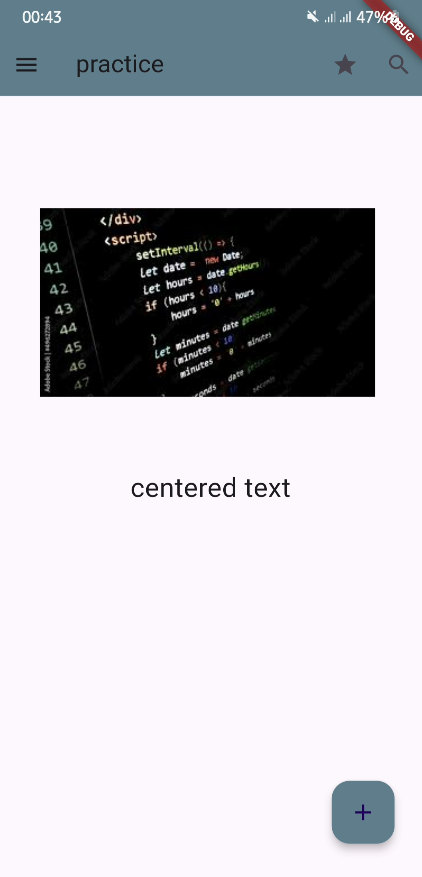
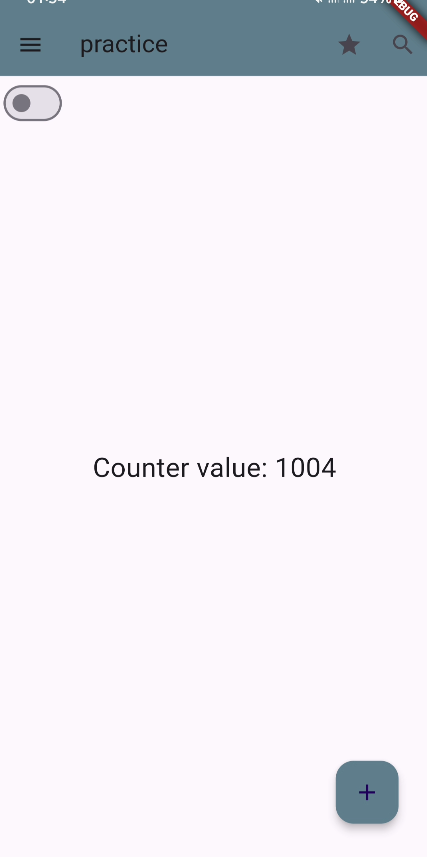
stateful widgets: added counter and image toggle

diff --git a/home_page_practice/main.dart b/home_page_practice/main.dart
@@ -1,5 +1,4 @@
 //date: 11 Jan 2025
-//new edit on 14 Jan 2025
 
 import 'package:flutter/material.dart';
 import 'constants/images.dart';  // For image paths
@@ -13,6 +12,34 @@ void main() {
 class MyApp extends StatelessWidget {
   const MyApp({super.key});
 
+  @override
+  Widget build(BuildContext context){
+    return MaterialApp(
+      home: MyHomePage()
+    );
+  }
+}
+
+// MyHomePage Widget Class
+
+class MyHomePage extends StatefulWidget{
+  @override
+  _MyHomePageState createState() => _MyHomePageState(); 
+}
+
+//State for MyHomePage
+
+class _MyHomePageState extends State<MyHomePage>{
+
+  int _counter = 0; //counter
+  bool _isSwitched = false; //for toggle
+
+  void _incrementCounter(){ //function for incrementing counter
+    setState(() => _counter++);
+  }
+
+  // main function
+  
   @override
   Widget build(BuildContext context) {
     return MaterialApp(
@@ -44,22 +71,29 @@ class MyApp extends StatelessWidget {
         body:
           Stack(
             children: [
-              Padding(
-                padding: EdgeInsets.only(left: 40, top: 100),
-                child: Image.asset(codeimg)
+              Switch(
+                value: _isSwitched,
+                onChanged: (v){
+                  setState(() => _isSwitched = v);
+                }
               ),
+              if(_isSwitched)
+                Padding(
+                  padding: EdgeInsets.only(left: 40, top: 100),
+                  child: Image.asset(codeimg)
+                ),
               Padding(
                 padding: const EdgeInsets.only(top: 610, left: 300),
                 child: 
                   FloatingActionButton(
-                    onPressed: (){ print("hello"); },
+                    onPressed: (){ _incrementCounter(); },
                     backgroundColor: bluegrey,
                     child: const Icon(Icons.add)
                   )
               ),
-              const Center(
+              Center(
                 child: Text(
-                  "centered text",
+                  "Counter value: $_counter",
                   style: TextStyle(
                       fontSize: 24
                   )
